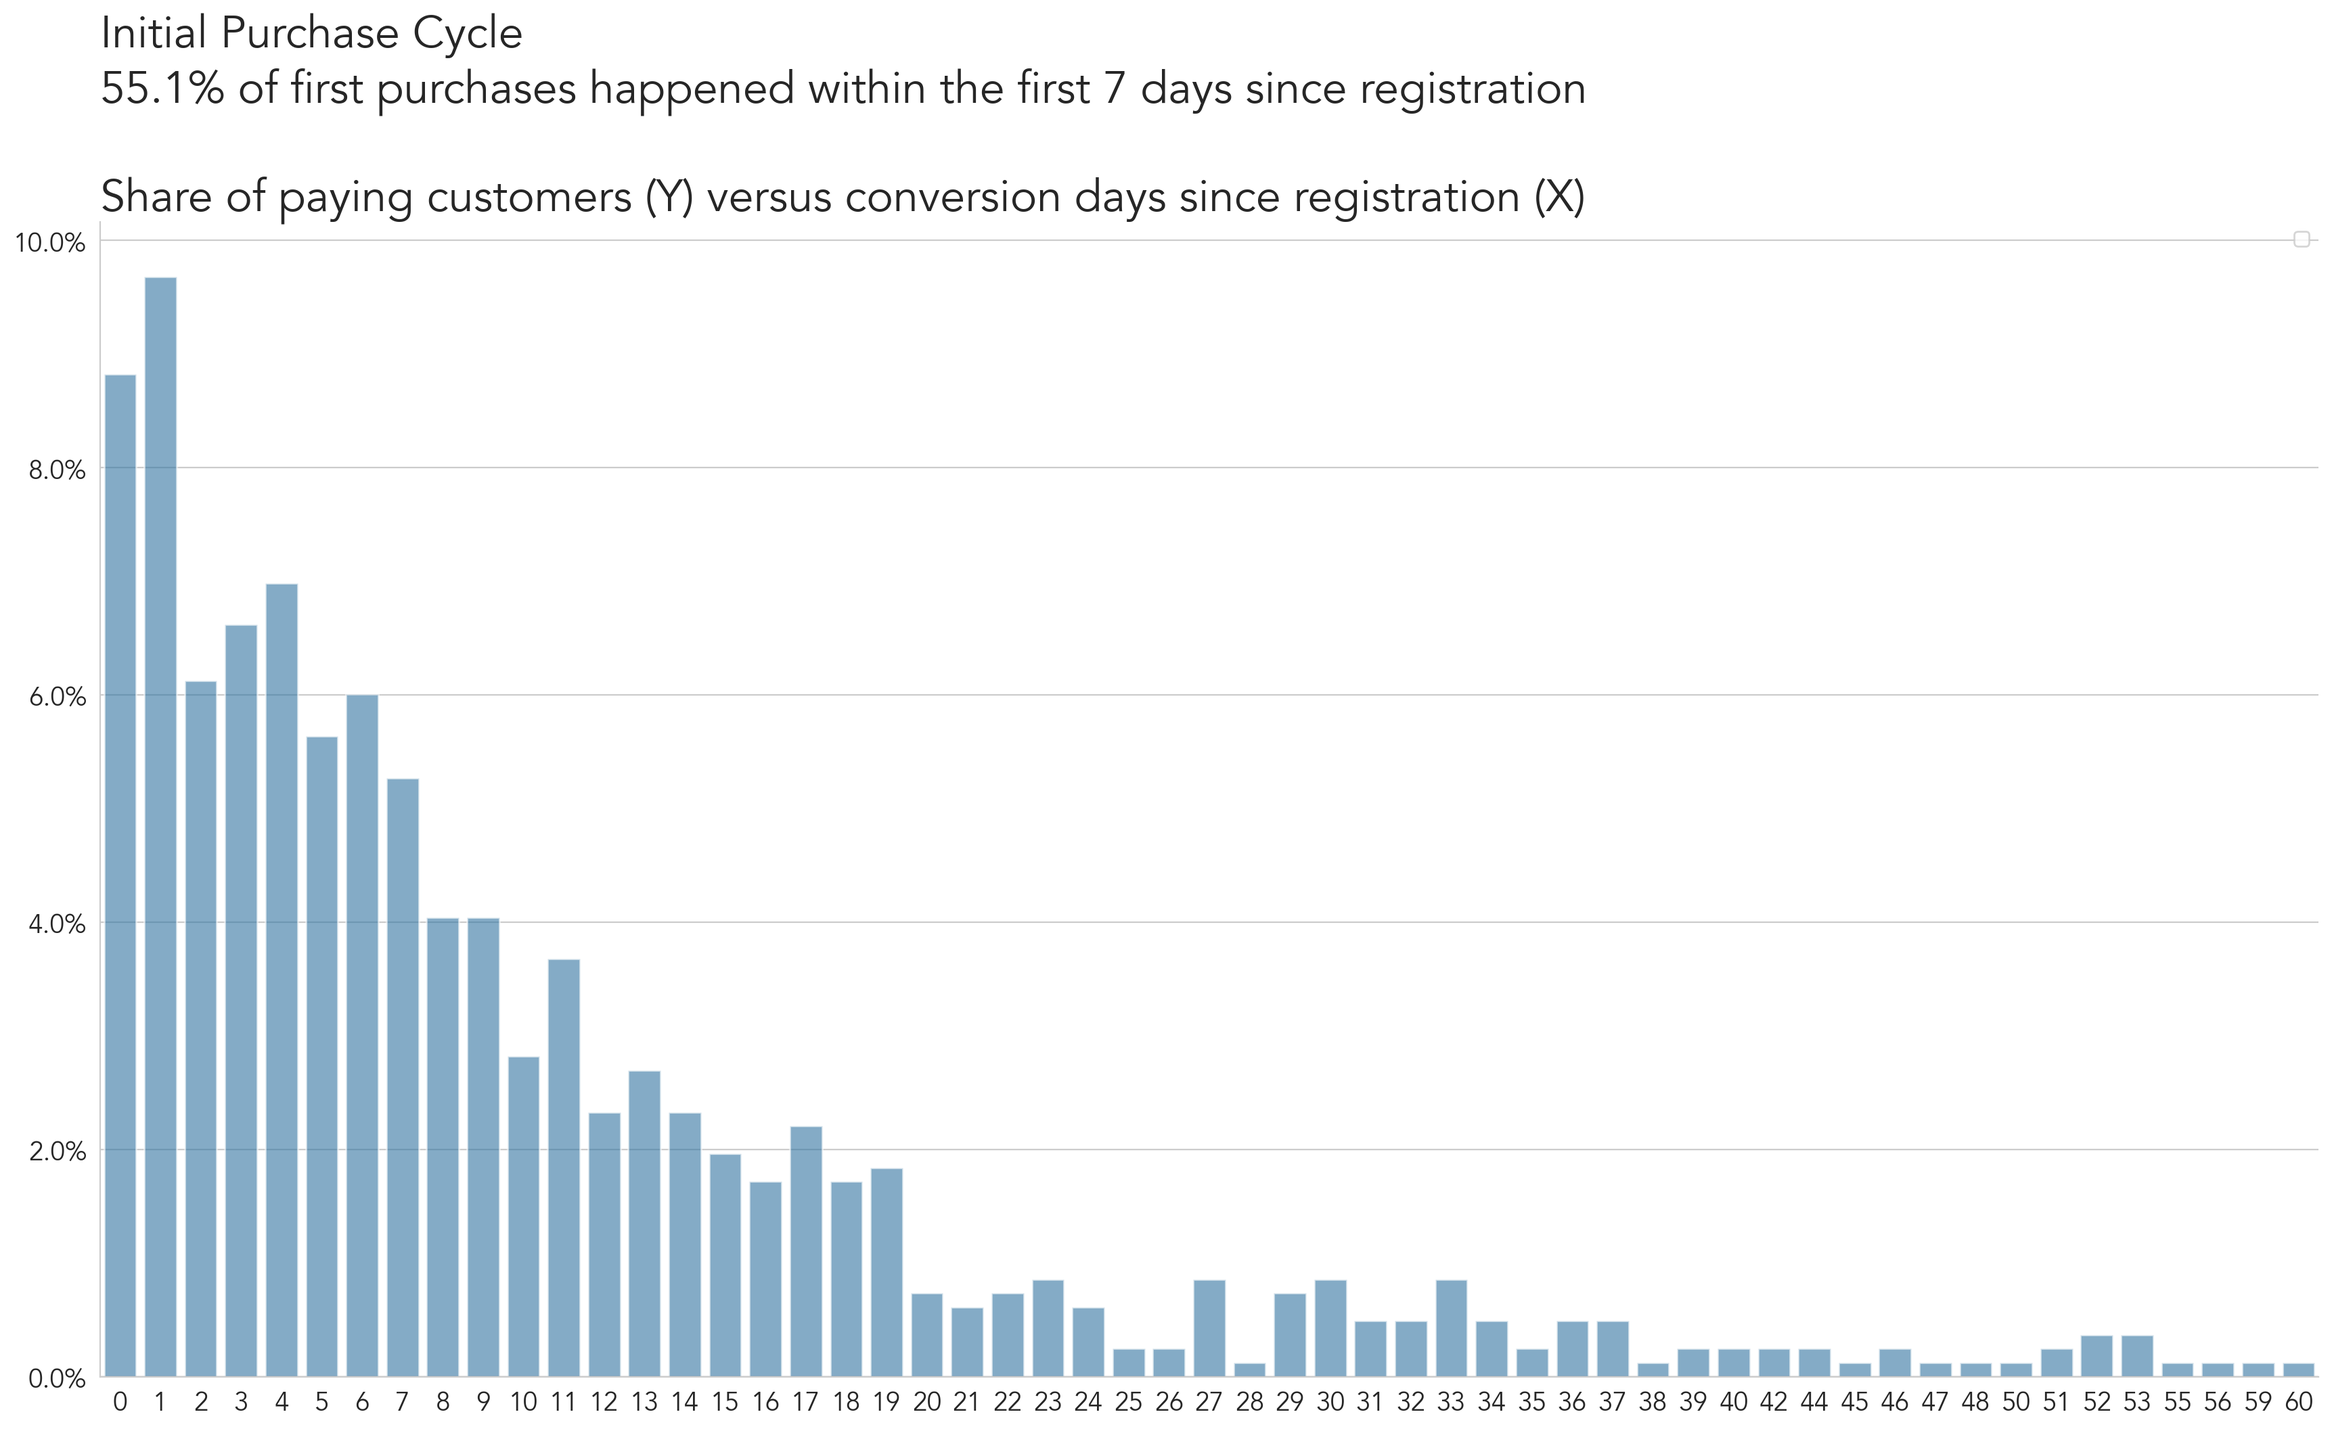
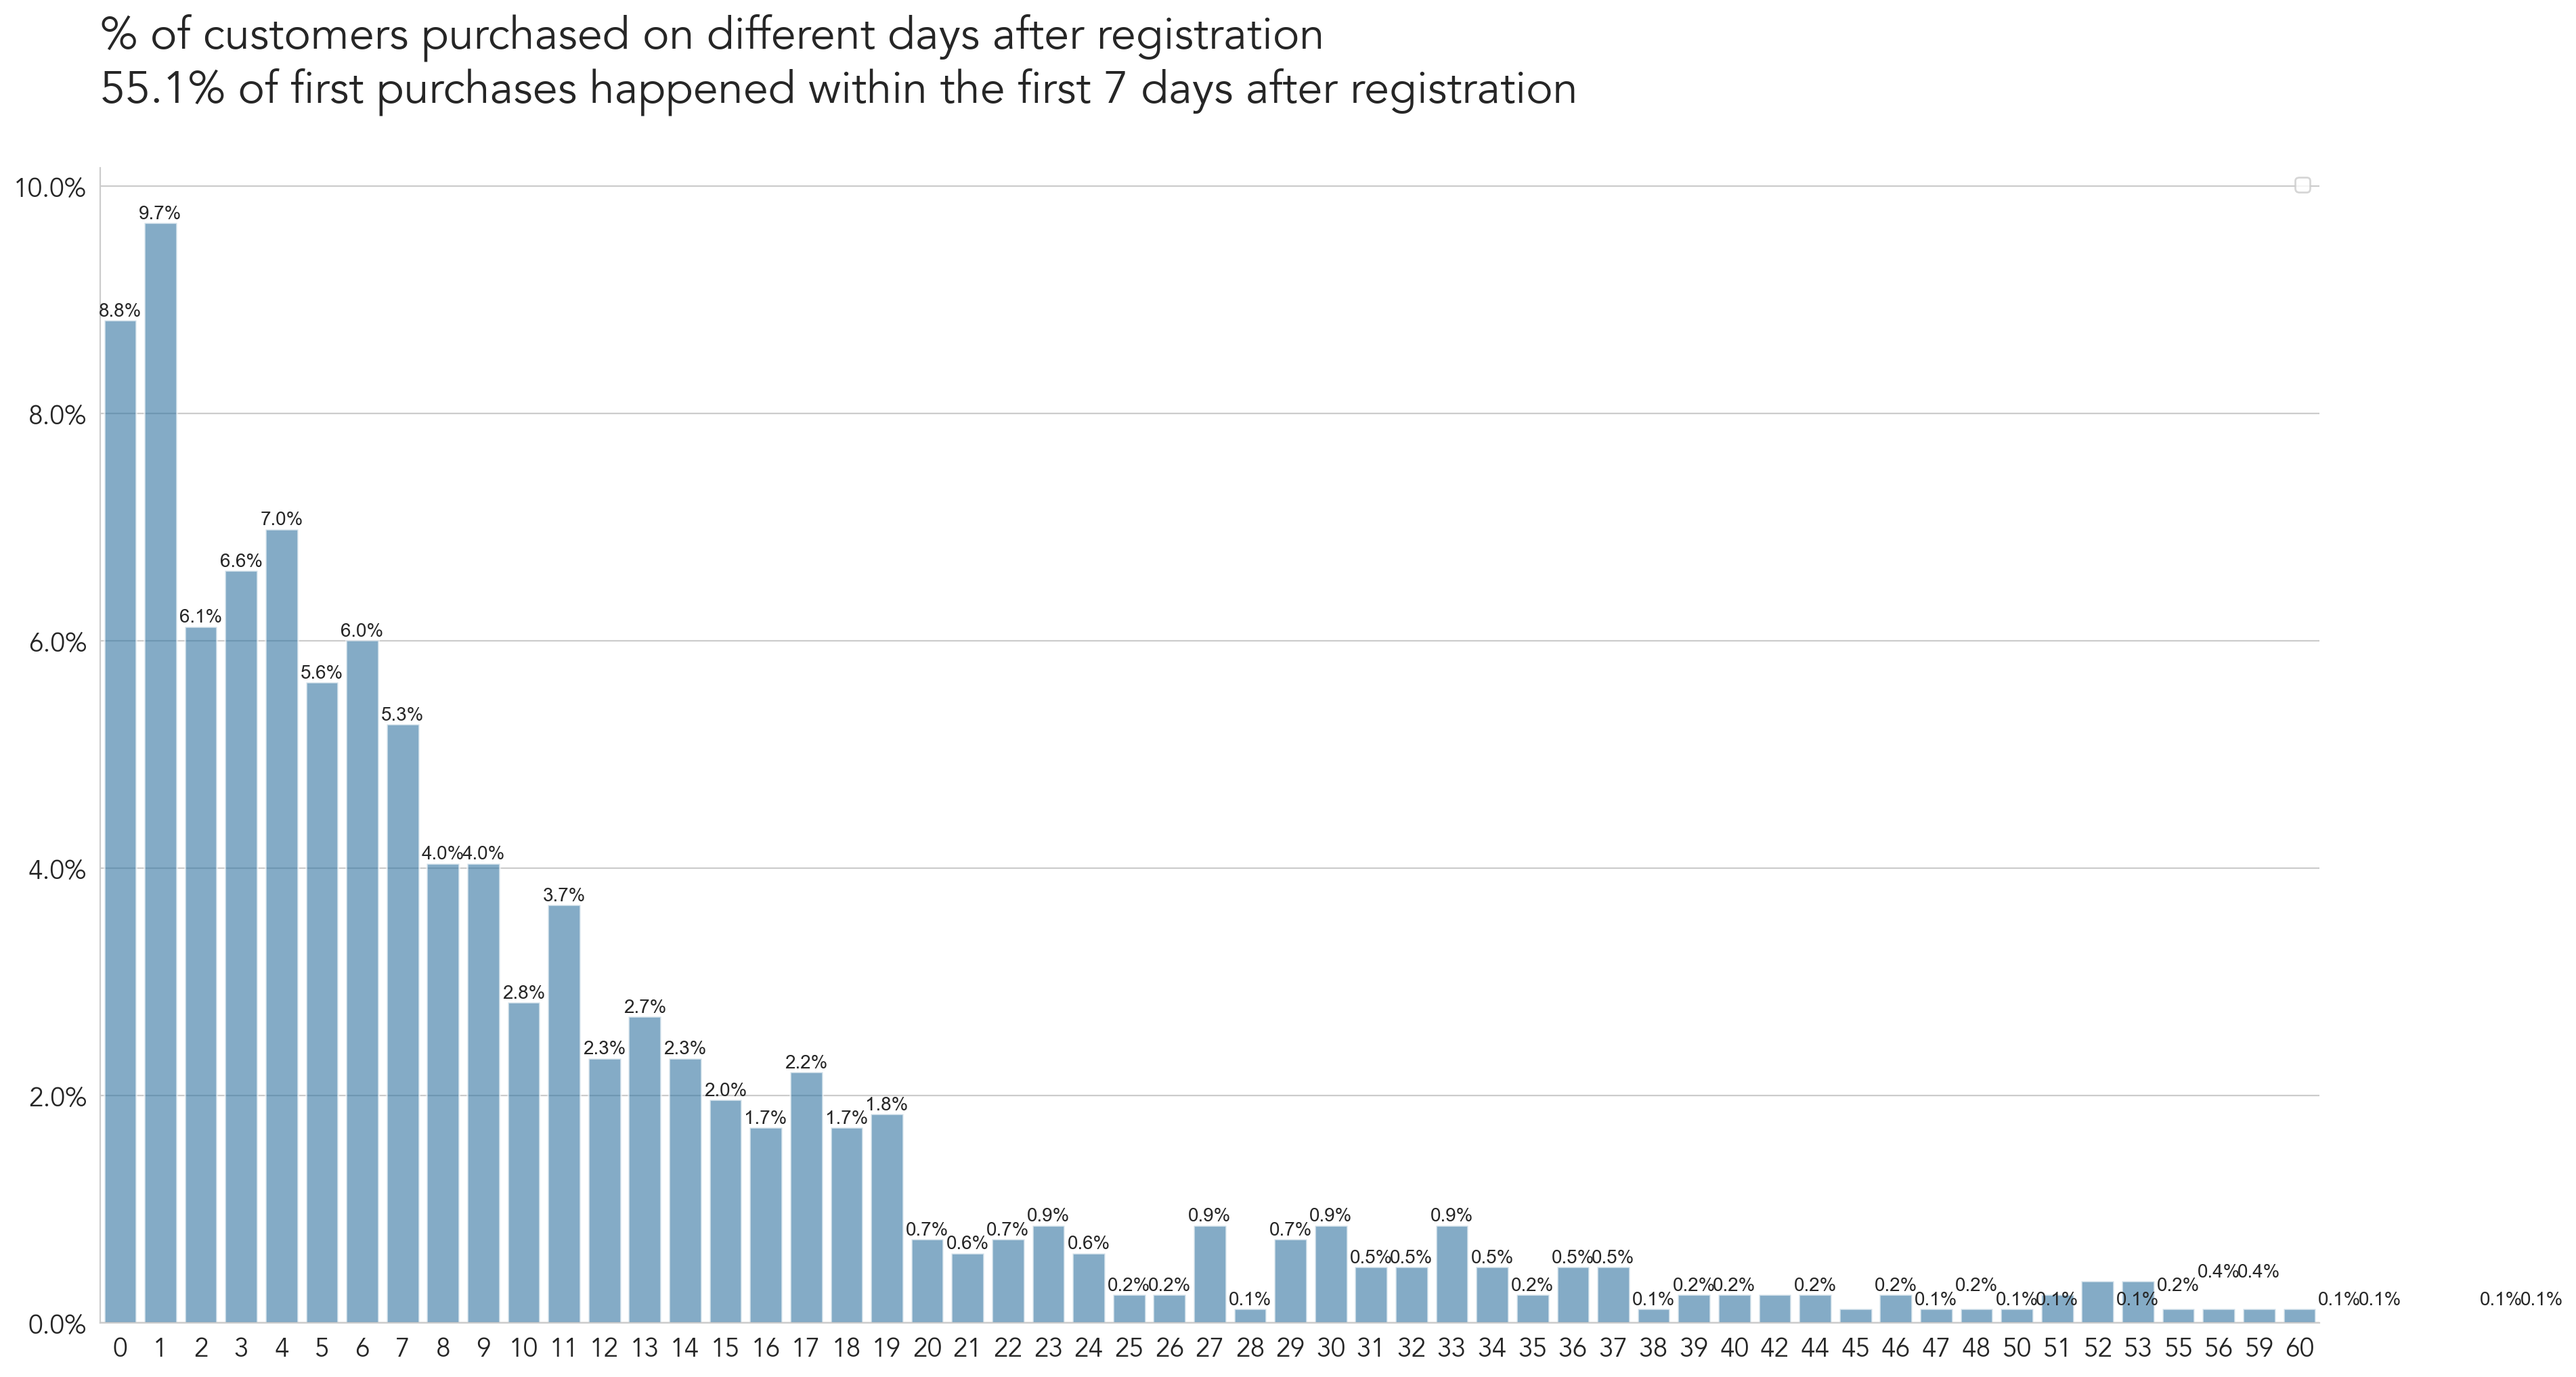
Updated data label and chart titles
1. Made the top spender chart's x-axis more granular for improved readability
2. Added % of customers data label on Time to First Purchase bar chart
3. Updated chart titles so that it's easier to understand

Changed region(s): [[0.0, 0.1238, 0.9936, 0.9907], [0.0311, 0.0, 0.6521, 0.0929]]

diff --git a/src/exploratory.py b/src/exploratory.py
@@ -273,7 +273,7 @@ class LTVexploratory:
             xlabel="Number of purchases",
             ylabel="Share of customers",
             y_format="%",
-            title=f"Distribution of paying customers (Y, %) by number of purchases of each customer until {days_limit} days after registration  (X)",
+            title=f"Customer Purchase Frequency (based on the first {days_limit} days after registration)",
         )
         ax = grid.ax
         # Add percentage labels on top of each bar
@@ -334,7 +334,24 @@ class LTVexploratory:
             .max()
             .reset_index()
         )
-
+        # Create the plot using the existing graphing method
+        fig = self.graph.line_plot(
+            data,
+            x_axis="cshare_customers",
+            y_axis="cshare_revenue",
+            xlabel="Share of paying customers",
+            ylabel="Share of revenue",
+            x_format="%",
+            y_format="%",
+            title=f"Top spenders' cumulative contribution to total revenue (based on the first {days_limit} days since registration)",
+        )
+        # Adjust the x-axis ticks to every 10%
+        for ax in fig.axes.flat:  # Iterate over all axes in the FacetGrid
+            ax.set_xticks(np.arange(0, 1.1, 0.1))
+            # Add a legend
+            ax.legend()
+        return fig, data
+        """
         fig = self.graph.line_plot(
             data,
             x_axis="cshare_customers",
@@ -346,6 +363,7 @@ class LTVexploratory:
             title=f"Share of all revenue of the first {days_limit} days after customer registration (Y) versus share of paying customers",
         )
         return fig, data
+        """
 
     def plot_customers_histogram_per_conversion_day(
         self, days_limit: int, optimization_window: int = 7, truncate_share=1.0
@@ -388,8 +406,29 @@ class LTVexploratory:
         share_customers_within_window = data[data["dsi"] <= optimization_window][
             self.uuid_col
         ].sum()
-        title = f"Initial Purchase Cycle\n{100*share_customers_within_window:.1f}% of first purchases happened within the first {optimization_window} days since registration\n\nShare of paying customers (Y) versus conversion days since registration (X)"
+        title = f"% of customers purchased on different days after registration\n{100*share_customers_within_window:.1f}% of first purchases happened within the first {optimization_window} days after registration\n"
 
+        # Create the bar plot using the existing graphing method
+        fig = self.graph.bar_plot(
+            data,
+            x_axis="dsi",
+            y_axis=self.uuid_col,
+            xlabel="",
+            ylabel="",
+            y_format="%",
+            title=title,
+        )
+        # Add percentage labels on top of each bar
+        for index, row in data.iterrows():
+            plt.text(
+                row["dsi"],
+                row[self.uuid_col],
+                f"{row[self.uuid_col]*100:.1f}%",
+                ha="center",
+                va="bottom",
+            )
+        return fig, data
+        """
         fig = self.graph.bar_plot(
             data,
             x_axis="dsi",
@@ -400,6 +439,7 @@ class LTVexploratory:
             title=title,
         )
         return fig, data
+        """
 
     def plot_early_late_revenue_correlation(
         self, days_limit: int, optimization_window: int = 7, interval_size: int = None
@@ -481,7 +521,7 @@ class LTVexploratory:
 
         fig = self.graph.heatmap_plot(
             customer_revenue_data,
-            title="Correlation matrix of revenue per user by days since registration\n",
+            title="Correlation matrix of revenue per user by different days since registration\n",
         )
         return fig, customer_revenue_data
 
@@ -663,7 +703,7 @@ class LTVexploratory:
             "early_class",
             "late_class",
             "customers",
-            title="User Flow Between Classes",
+            title=f"Purchaser Flow Between an early point in time - {early_limit} days and a future point in time - {days_limit} days",
         )
 
         return fig, visualization_data
